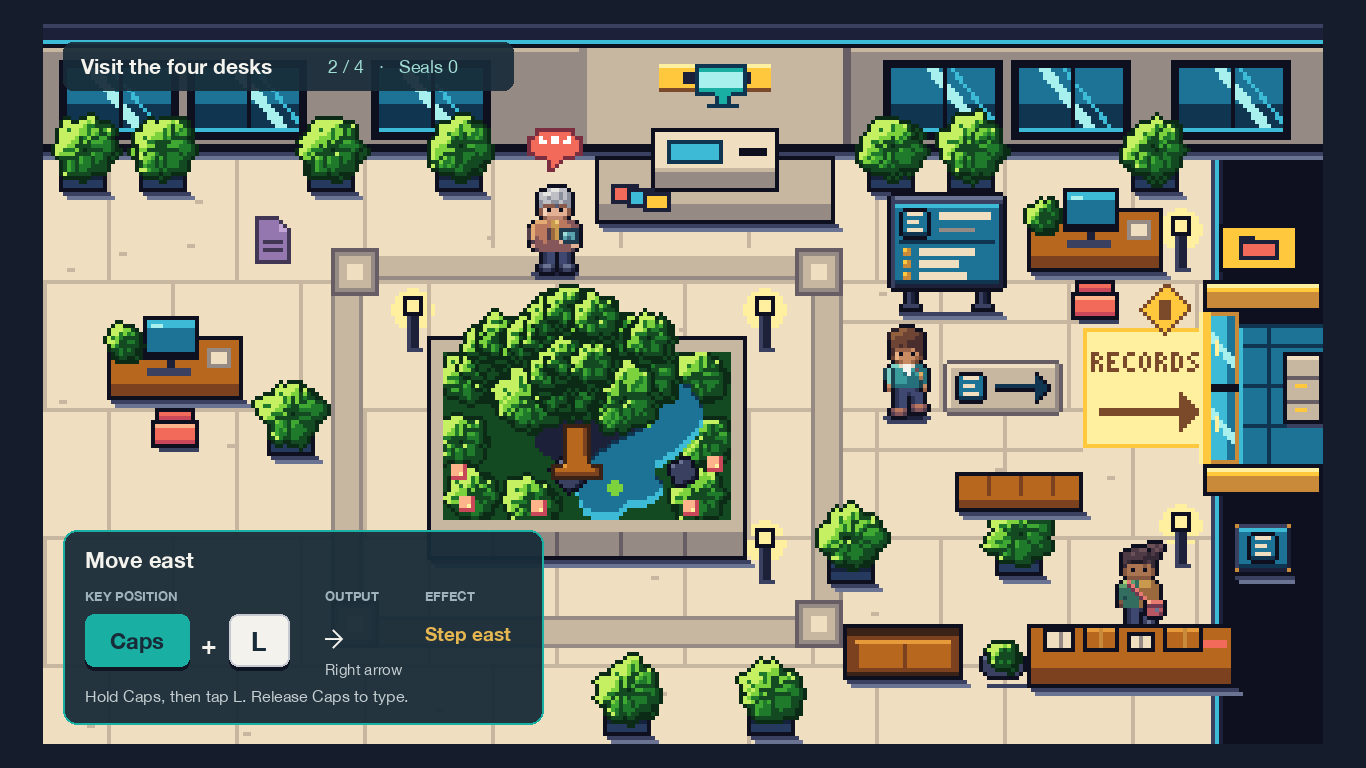
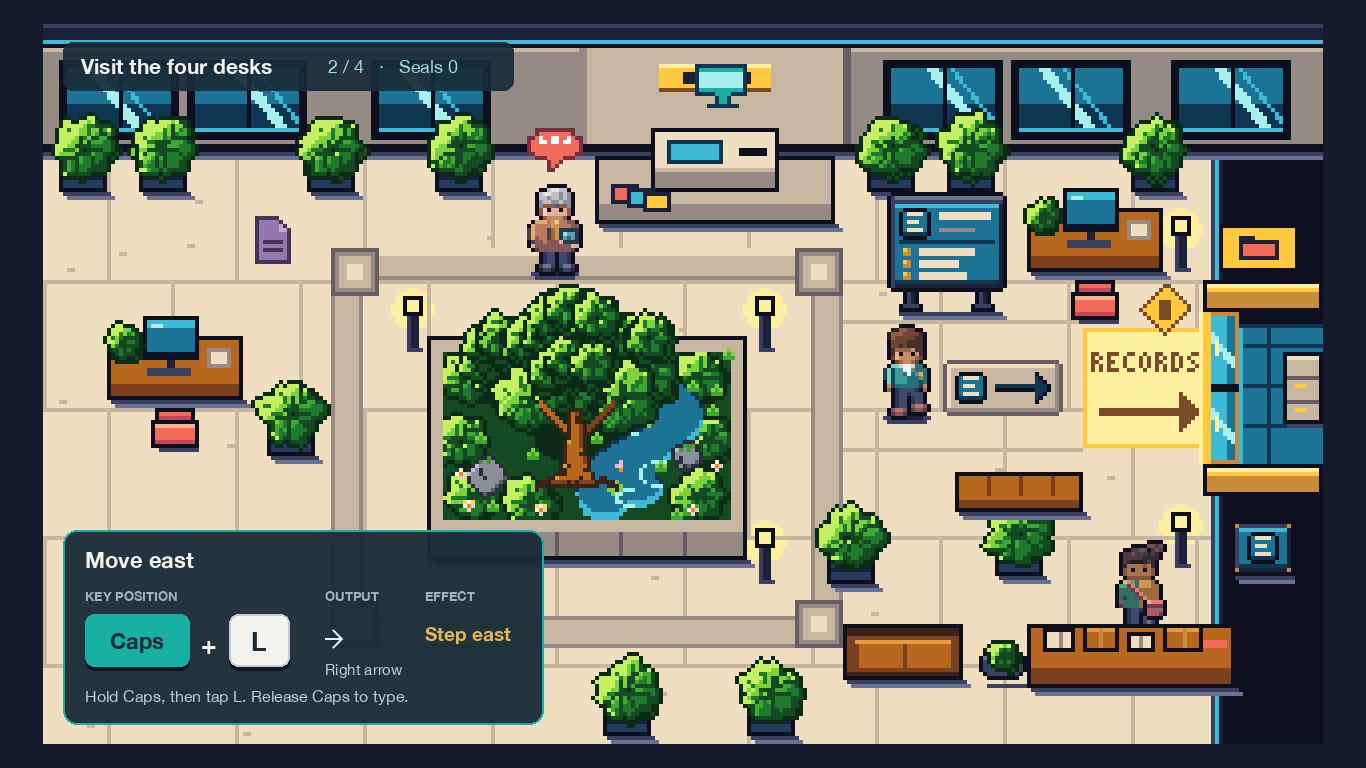
feat(art): rich finish garden landmark (trunk, rocks, pond, flowers)

Changed region(s): [[0.3075, 0.5312, 0.5534, 0.6875], [0.5227, 0.4375, 0.5534, 0.4688], [0.4919, 0.5, 0.5227, 0.5312]]

diff --git a/art-direction/kit/rich_finish.py b/art-direction/kit/rich_finish.py
@@ -170,3 +170,105 @@ def extend(m):
         for h in steps:
             out.setdefault(h.upper(), h.upper())
     return out
+
+
+# ------------------------------------------------------------------ garden parts (RICH_FINISH_SPEC.md section 3)
+
+ROCKS = [hx(h) for h in dp.RICH_EXTRAS["rocks"]]
+MOSS = hx(dp.RICH_EXTRAS["moss"][0])
+PETAL_SHADE, PETAL = [hx(h) for h in dp.RICH_EXTRAS["petals"]]
+ORANGE, PINK, YELLOW = [hx(h) for h in dp.RICH_EXTRAS["flower_accents"]]
+FOLIAGE_EDGE = hx(dp.FOLIAGE_EXTRA["orientation"]["edge"])  # canopy shadow on the bed: dark green, never navy
+
+
+def rock(r, cx, cy, rr, bed, bst):
+    """Grey rock, shaded from the upper left, a moss cap and a one-pixel crack."""
+    m = r.blob(cx, cy, rr, 1.0, lobes=4, amp=0.12) & bed
+    bst.shade_mask(r.img, m, ROCKS, k_shadow=1, k_light=1)
+    r.img[m & ~bst.shifted(m, -1, -1)] = ROCKS[3]
+    r.outline(m, ROCKS[0])
+    gx, gy = cx - 6, cy - 6  # the moss pattern counts columns from the rock's own box
+    ys, xs = np.nonzero(m[gy:gy + 12, gx:gx + 12] & np.all(r.img[gy:gy + 12, gx:gx + 12] != ROCKS[0], axis=2))
+    if len(ys):
+        top = ys.min()
+        green = hx(dp.DISTRICTS["orientation"]["foliage"][2])
+        for y, x in zip(ys, xs):
+            if y == top or (y == top + 1 and (x + y) % 2 == 0):
+                r.img[gy + y, gx + x] = MOSS if x % 2 == 0 else green
+        mid = int(np.median(xs))
+        for k in range(3):
+            r.img[gy + top + 3 + k, gx + mid - 1 + k // 2] = ROCKS[0]
+
+
+def pond_detail(r, water, glass):
+    """Ripple arcs on the lit side, a sheen band and one lily flower on the water mask."""
+    yy, xx = np.mgrid[0:r.img.shape[0], 0:r.img.shape[1]]
+    w = water.copy()
+    w[:, :118] = False
+    w[:, 172:] = False
+    w[:80] = False
+    w[130:] = False
+    for cx, cy, rr in ((150, 100, 4), (154, 112, 5), (146, 118, 3)):
+        ring = np.abs(np.hypot(xx - cx, (yy - cy) * 1.6) - rr) < 0.6
+        r.img[ring & w & (xx < cx + 2)] = glass[3]
+    r.img[w & (np.abs(xx - yy * 0.6 - 62) < 1.2)] = glass[2]
+    for x, y in ((143, 110), (144, 110), (144, 109)):
+        r.img[y, x] = PINK
+    r.img[111, 144] = ORANGE
+
+
+def trunk(r, wood, bst):
+    """Root flare, roots creeping along the bed, bark streaks, a lit left edge and two limbs."""
+    cx = 133
+    rows = {96: 4, 98: 4, 100: 5, 102: 5, 104: 6, 106: 6, 108: 7, 110: 8, 112: 10, 114: 12}
+    m = np.zeros(r.img.shape[:2], bool)
+    for y, w in rows.items():
+        m[y:y + 2, cx - w // 2: cx + (w + 1) // 2] = True
+    for dx in (-1, 1):
+        for t in range(5):
+            m[113 + t // 2, cx + dx * (6 + t)] = True
+            m[114 + t // 2, cx + dx * (6 + t)] = True
+    bst.shade_mask(r.img, m, wood, k_shadow=2, k_light=1)
+    r.outline(m, wood[0])
+    a = r.img
+    bark = np.zeros(a.shape[:2], bool)
+    for col in wood:
+        bark |= np.all(a == col, axis=2)
+    bark[:, :120] = False
+    bark[:, 150:] = False
+    rnd = np.random.RandomState(5)
+    streak = bark & (rnd.rand(*bark.shape) < 0.16) & np.roll(bark, 1, 0)
+    a[streak] = wood[0]
+    lit = bark & ~np.roll(bark, 1, 1)
+    a[lit & np.all(a == wood[2], axis=2)] = wood[3]
+    for sx in (-1, 1):  # limbs that show through the canopy
+        for t in range(7):
+            x, y = 133 + sx * (3 + t), 100 - t
+            a[y:y + 2, x] = wood[2] if sx < 0 else wood[1]
+            a[y + 2, x] = wood[0]
+
+
+def grass_tufts(r, bed, dark, light, seed=4, n=14):
+    """Three-blade grass tufts on the dark bed."""
+    rnd = random.Random(seed)
+    ys, xs = np.nonzero(bed)
+    for _ in range(n):
+        i = rnd.randrange(len(ys))
+        x, y = int(xs[i]), int(ys[i])
+        if tuple(r.img[y, x]) in [tuple(c) for c in dark]:
+            for dx, h in ((-1, 2), (0, 3), (1, 2)):
+                for k in range(h):
+                    if 0 <= y - k < r.img.shape[0]:
+                        r.img[y - k, x + dx] = light[0] if k < h - 1 else light[1]
+
+
+def flower(r, x, y, pair=False):
+    """White flower with an orange centre; every second one carries a pair of yellow dots."""
+    r.img[y - 1, x] = PETAL
+    r.img[y + 1, x] = PETAL_SHADE
+    r.img[y, x - 1] = PETAL
+    r.img[y, x + 1] = PETAL_SHADE
+    r.img[y, x] = ORANGE
+    if pair:
+        r.img[y - 1, x - 1] = YELLOW
+        r.img[y - 1, x + 1] = YELLOW

diff --git a/art-direction/kit/orientation_kit.py b/art-direction/kit/orientation_kit.py
@@ -21,6 +21,7 @@ for sub in ("gate1", "scale-test", "cast", "palettes"):
 import build_scale_test as bst  # noqa: E402
 import district_palettes as dp  # noqa: E402
 import environment as env  # noqa: E402
+import rich_finish as rf  # noqa: E402
 import kitlib  # noqa: E402
 import shared_pieces as shp  # noqa: E402
 
@@ -406,44 +407,20 @@ def extract_props(pieces, placements):
 def extract_garden(pieces, placements):
     """Stage-by-stage capture of env.garden(): each hook closes one named stage."""
     snaps_by_bg = []
-    saved = (env.leaves, env.shade_mask, env.lamp)
-    orig_leaves, orig_shade, _ = saved
+    saved_lamp = env.lamp
     for bg in kitlib.SENTINELS:
         snaps = [("start", np.full((H, W, 3), bg, np.uint8))]
         r = new_room()
         r.img[:] = bg
-
-        def snap(name):
-            snaps.append((name, r.img.copy()))
-
-        def leaves(rr, cx, cy, rad, seed, *a, **k):
-            if seed == 40:
-                snap("base")
-            res = orig_leaves(rr, cx, cy, rad, seed, *a, **k)
-            if seed == 47:
-                snap("foliage")
-            if seed == 70:
-                pass
-            if seed == 75:
-                snap("canopy")
-            return res
-
-        def shade(img, m, ramp, *a, **k):
-            if ramp is WOOD:
-                snap("rocks")
-            res = orig_shade(img, m, ramp, *a, **k)
-            if ramp is WOOD:
-                snap("trunk")
-            return res
-        env.leaves, env.shade_mask, env.lamp = leaves, shade, (lambda *a, **k: None)
+        env.lamp = lambda *a, **k: None
         try:
-            env.garden(r)
+            env.garden(r, stage=lambda name: snaps.append((name, r.img.copy())))
         finally:
-            env.leaves, env.shade_mask, env.lamp = saved
-        snap("accents")
+            env.lamp = saved_lamp
+        snaps.append(("accents", r.img.copy()))
         snaps_by_bg.append(snaps)
     names = [n for n, _ in snaps_by_bg[0]]
-    assert names == ["start", "base", "foliage", "rocks", "trunk", "canopy", "accents"], names
+    assert names == ["start", "base", "foliage", "rocks", "canopy", "trunk", "accents"], names
     stage = {}
     for k in range(1, len(names)):
         mk = np.zeros((H, W), bool)
@@ -474,9 +451,9 @@ def extract_garden(pieces, placements):
         pieces.append(p)
         return p
 
-    # Accents split by colour: canopy shadow is INK[1]; flowers use coral and brass.
+    # Accents split by colour: canopy shadow is the dark foliage edge green; flowers and grass tufts are the rest.
     am, ac = stage["accents"]
-    shadow_m = am & np.all(ac == INK[1], axis=2)
+    shadow_m = am & np.all(ac == rf.FOLIAGE_EDGE, axis=2)
     bloom_m = am & ~shadow_m
     base = part("garden_base", [stage["base"]], "rim, jointed side face, cast shadow, planted bed, stream with pool "
                 "and lily pads", ["base", "water"], collision=True)
@@ -484,11 +461,11 @@ def extract_garden(pieces, placements):
     sb = kitlib.bbox(sh_p)
     base.shadow = (sb[0] - x0, sb[1] - y0, sb[2] - sb[0], sb[3] - sb[1])
     part("garden_foliage", [stage["foliage"]], "eight shrub clusters around the bed edge", ["foliage"])
-    part("garden_rocks", [stage["rocks"]], "two rocks by the water", ["rocks"])
-    part("garden_centrepiece", [stage["trunk"], stage["canopy"]],
-         "the tree: trunk with root flare and a layered canopy that overhangs the rim", ["centrepiece", "tree"])
+    part("garden_rocks", [stage["rocks"]], "two grey rocks with a moss cap and a crack", ["rocks"])
+    part("garden_centrepiece", [stage["canopy"], stage["trunk"]],
+         "the tree: a layered canopy of leaf fans that overhangs the rim, with the trunk, root flare, bark and two limbs drawn over its lower edge", ["centrepiece", "tree"])
     part("garden_canopy_shadow", [(shadow_m, ac)], "one cool step of shadow on the bed below the crown", ["shadow"])
-    part("garden_blooms", [(bloom_m, ac)], "five coral flower clusters with a brass centre pixel", ["blooms"])
+    part("garden_blooms", [(bloom_m, ac)], "grass tufts and five white flowers with orange centres (every second one has two yellow dots)", ["blooms"])
     placements.append(("landmark:garden", GARDEN_FP[0], GARDEN_FP[1]))
 
 

diff --git a/art-direction/gate1/environment.py b/art-direction/gate1/environment.py
@@ -364,7 +364,10 @@ def mail_counter(r, x0, y0):
 
 # ------------------------------------------------------------------ garden landmark
 
-def garden(r):
+def garden(r, stage=None):
+    """The garden landmark. `stage(name)` is called as each part is complete (base, foliage, rocks,
+    canopy, trunk, accents) so the kit can capture the parts; drawing does not depend on it."""
+    stage = stage or (lambda name: None)
     x0, y0, x1, y1, face = 96, 78, 176, 134, 8
     r.cast(x0, x1, y1, rows=2)
     # Rim: lit top plane, jointed side face, dark base.
@@ -381,7 +384,7 @@ def garden(r):
     r.outline(r.mask(x0, y0, x1, y1))
     bed = r.mask(x0 + 4, y0 + 4, x1 - 4, y1 - face - 2)
     r.img[bed] = GREEN[0]
-    # Stream: a winding channel with a pool, cool ramp, one highlight step.
+    # Stream: a winding channel with a pool, cool ramp, one highlight step, then ripples, a sheen and a lily.
     water = np.zeros((H, W), bool)
     for t in np.linspace(0, 1, 40):
         cx = 150 + 10 * math.sin(t * 5.0)
@@ -395,32 +398,32 @@ def garden(r):
     for lx, ly in [(143, 116), (151, 99)]:
         pad = r.disc(lx, ly, 2.2, 1.6)
         r.img[pad & water] = GREEN[3]
+    rich_finish.pond_detail(r, water, GLASS)
+    stage("base")
     # Ground cover and shrubs around the edge, back to front.
     clip = bed & ~water
     for i, (sx, sy) in enumerate([(106, 88), (118, 86), (164, 88), (104, 104), (166, 104), (108, 118), (122, 120), (164, 118)]):
         leaves(r, sx, sy, 5.5, 40 + i, count=5, spread=5, clip=clip)
-    # Rocks by the water.
-    for rx, ry, rr in [(132, 112, 5), (160, 112, 4)]:
-        rock = r.blob(rx, ry, rr, 1.0, lobes=4, amp=0.12) & bed
-        shade_mask(r.img, rock, INK, k_shadow=1, k_light=1)
-        r.img[rock & ~shifted(rock, -1, -1)] = INK[3]
-        r.outline(rock, INK[0])
-    # Tree: trunk with root flare, then a layered canopy that overhangs the rim.
-    trunk = r.mask(130, 100, 137, 114) | r.mask(127, 110, 140, 114)
-    shade_mask(r.img, trunk, WOOD, k_shadow=2, k_light=1)
-    r.outline(trunk, WOOD[0])
+    stage("foliage")
+    # Grey rocks with a moss cap and a crack.
+    for rx, ry, rr in [(111, 113, 5), (161, 108, 4)]:
+        rich_finish.rock(r, rx, ry, rr, bed, bst)
+    stage("rocks")
+    # Canopy: seven smaller fans per crown, overhanging the rim.
     canopy = np.zeros((H, W), bool)
     for i, (cx, cy, cr) in enumerate([(117, 84, 10), (149, 84, 10), (133, 77, 10), (122, 94, 7), (145, 94, 7), (133, 89, 9)]):
         canopy |= leaves(r, cx, cy, cr, 70 + i, count=6, spread=cr * 0.8)
-    # Canopy shadow: one cool step on the bed below-right of the crown.
+    stage("canopy")
+    # Trunk with root flare, bark and limbs, drawn over the canopy's lower edge.
+    rich_finish.trunk(r, WOOD, bst)
+    stage("trunk")
+    # Canopy shadow: one flat step of dark green on the bed below-right of the crown.
     shadow = r.disc(140, 104, 17, 7) & clip & ~canopy
-    r.img[shadow & np.all(r.img == GREEN[0], axis=2)] = INK[1]
-    # Flowers: coral and brass clusters with a lit centre.
-    for fx, fy in [(104, 112), (106, 120), (168, 110), (124, 121), (162, 121)]:
-        m = r.disc(fx, fy, 2.4, 2.0) & clip
-        r.img[m] = CORAL[3]
-        r.img[m & ~shifted(m, 1, 1)] = CORAL[1]
-        r.img[fy, fx] = BRASS[3]
+    r.img[shadow & np.all(r.img == GREEN[0], axis=2)] = rich_finish.FOLIAGE_EDGE
+    # Grass tufts, then white flowers with orange centres.
+    rich_finish.grass_tufts(r, clip & ~canopy, [GREEN[0], rich_finish.FOLIAGE_EDGE], [GREEN[2], GREEN[3]])
+    for i, (fx, fy) in enumerate([(104, 112), (106, 120), (168, 110), (124, 121), (162, 121)]):
+        rich_finish.flower(r, fx, fy, pair=bool(i % 2))
     # Lamp posts at the rim corners.
     for cx, cy in [(92, 72), (180, 72), (180, 130)]:  # the inset covers the fourth corner
         lamp(r, cx, cy)
